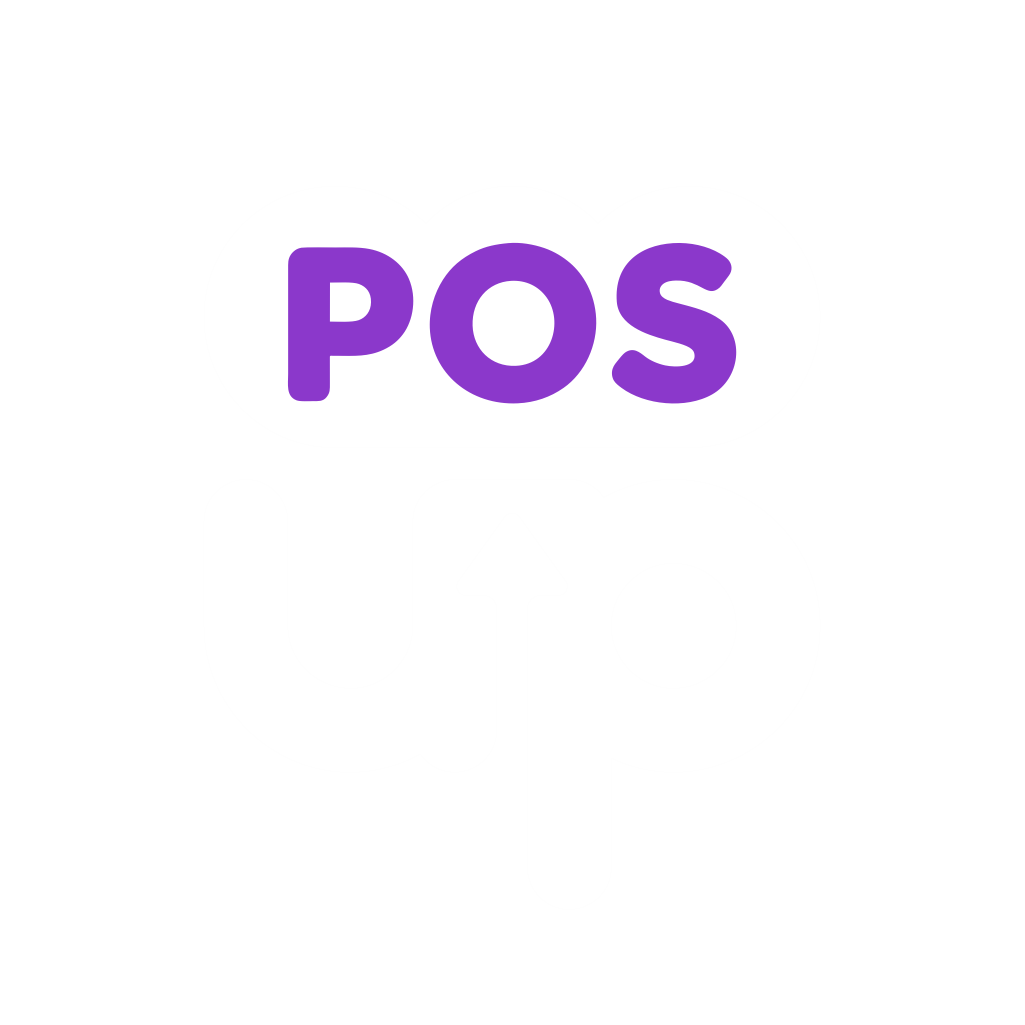
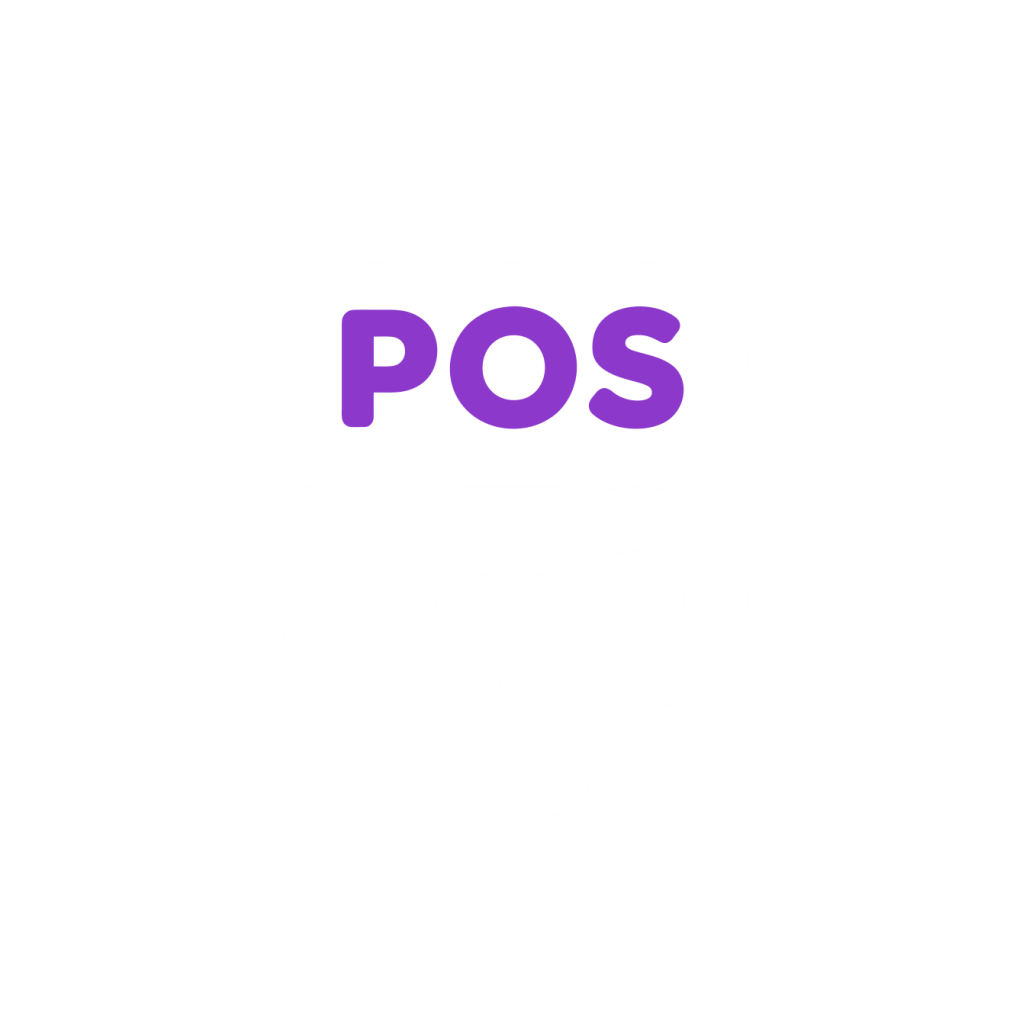
apk building for testing

Changed region(s): [[0.281, 0.2185, 0.718, 0.4371]]

diff --git a/lib/sunmiPrinter.ts b/lib/sunmiPrinter.ts
@@ -1,0 +1,90 @@
+// lib/sunmiPrinter.ts
+//
+// Native-only (Android) implementation of Sunmi built-in printer support.
+// This file is paired with lib/sunmiPrinter.web.ts -- Metro automatically
+// picks the .web.ts version when bundling for web, so the native library
+// import below is NEVER statically included in the web build.
+//
+// Do not import '@mitsuharu/react-native-sunmi-printer-library' anywhere
+// outside this file (and its .web.ts counterpart).
+
+import * as SunmiPrinterLibrary from '@mitsuharu/react-native-sunmi-printer-library';
+
+interface ReceiptTranslation {
+  total: string;
+  payment: string;
+  cash: string;
+  card: string;
+  note: string;
+  thank: string;
+  subtotal: string;
+  discount: string;
+  table: string;
+}
+
+export async function printReceiptViaSunmi(
+  order: any,
+  restaurantName: string,
+  tr: ReceiptTranslation
+): Promise<void> {
+  const date = new Date(order.created_at);
+  const dateStr = date.toLocaleDateString('de-CH');
+  const timeStr = date.toLocaleTimeString('de-CH', { hour: '2-digit', minute: '2-digit' });
+
+  await SunmiPrinterLibrary.prepare();
+
+  await SunmiPrinterLibrary.setAlignment('center');
+  await SunmiPrinterLibrary.setTextStyle('bold', true);
+  await SunmiPrinterLibrary.setFontSize(32);
+  await SunmiPrinterLibrary.printText(restaurantName.toUpperCase() + '\n');
+  await SunmiPrinterLibrary.setFontSize(24);
+  await SunmiPrinterLibrary.printText((order.order_number || '') + '\n');
+  await SunmiPrinterLibrary.setTextStyle('bold', false);
+  await SunmiPrinterLibrary.setFontSize(20);
+  await SunmiPrinterLibrary.printText(`${dateStr} ${timeStr}\n`);
+  if (order.table && order.table !== 'Walk-in') {
+    await SunmiPrinterLibrary.printText(`${tr.table}: ${order.table}\n`);
+  }
+
+  await SunmiPrinterLibrary.setAlignment('left');
+  await SunmiPrinterLibrary.printText('--------------------------------\n');
+
+  for (const item of order.items || []) {
+    const left = `${item.quantity}x ${item.name}`;
+    const right = `CHF ${parseFloat(item.total).toFixed(2)}`;
+    await SunmiPrinterLibrary.printText(left.padEnd(32 - right.length) + right + '\n');
+
+    if (item.variation) {
+      await SunmiPrinterLibrary.printText(`   -> ${item.variation}\n`);
+    }
+
+    for (const addon of item.addons || []) {
+      await SunmiPrinterLibrary.printText(`   + ${addon.label || addon.name}\n`);
+    }
+  }
+
+  await SunmiPrinterLibrary.printText('--------------------------------\n');
+
+  if (order.discount && parseFloat(order.discount) > 0) {
+    const sub = `CHF ${parseFloat(order.subtotal).toFixed(2)}`;
+    await SunmiPrinterLibrary.printText(`${tr.subtotal.padEnd(32 - sub.length)}${sub}\n`);
+    const disc = `-CHF ${parseFloat(order.discount).toFixed(2)}`;
+    await SunmiPrinterLibrary.printText(`${tr.discount.padEnd(32 - disc.length)}${disc}\n`);
+  }
+
+  const total = `CHF ${parseFloat(order.total).toFixed(2)}`;
+  await SunmiPrinterLibrary.setTextStyle('bold', true);
+  await SunmiPrinterLibrary.printText(`${tr.total.padEnd(32 - total.length)}${total}\n`);
+  await SunmiPrinterLibrary.setTextStyle('bold', false);
+  await SunmiPrinterLibrary.printText(`${tr.payment}: ${order.payment_method === 'cash' ? tr.cash : tr.card}\n`);
+
+  if (order.note) {
+    await SunmiPrinterLibrary.printText(`${tr.note}: ${order.note}\n`);
+  }
+
+  await SunmiPrinterLibrary.printText('--------------------------------\n');
+  await SunmiPrinterLibrary.setAlignment('center');
+  await SunmiPrinterLibrary.printText(tr.thank + '\n');
+  await SunmiPrinterLibrary.setFontSize(16);
+  await SunmiPrinterLibrary.printText('Powered by FoodUp.ch\n\n\n');
+}

diff --git a/lib/printer.ts b/lib/printer.ts
@@ -1,6 +1,7 @@
 import AsyncStorage from '@react-native-async-storage/async-storage';
 import * as Print from 'expo-print';
 import { Platform } from 'react-native';
+import { printReceiptViaSunmi } from './sunmiPrinter';
 
 const receiptTranslations: { [key: string]: { total: string; payment: string; cash: string; card: string; note: string; thank: string; subtotal: string; discount: string; table: string; } } = {
   de: { total: 'TOTAL', payment: 'Zahlung', cash: 'Bar', card: 'Karte', note: 'Notiz', thank: 'Danke & auf Wiedersehen!', subtotal: 'Zwischensumme', discount: 'Rabatt', table: 'Tisch' },
@@ -324,12 +325,13 @@ async function printZReportViaTCP(data: any, restaurantName: string, language: s
     setTimeout(() => { client.destroy(); reject(new Error('Print timeout')); }, 6000);
   });
 }
-
+ 
 export async function printOrder(order: any, restaurantCode: string): Promise<void> {
   const restaurantName = await AsyncStorage.getItem('restaurant_name') || restaurantCode;
   const logoUrl = await AsyncStorage.getItem('restaurant_logo') || '';
   const language = await AsyncStorage.getItem('app_language') || 'de';
   const printerIp = await AsyncStorage.getItem('printer_ip');
+  const printerModel = (await AsyncStorage.getItem('printer_model') || '').toLowerCase();
 
   if (Platform.OS === 'web') {
     const html = buildReceiptHTML(order, restaurantName, logoUrl, language);
@@ -341,6 +343,16 @@ export async function printOrder(order: any, restaurantCode: string): Promise<vo
       setTimeout(() => { win.print(); win.close(); }, 500);
     }
     return;
+  }
+
+  if (printerModel.includes('sunmi')) {
+    try {
+      const tr = receiptTranslations[language] || receiptTranslations['de'];
+      await printReceiptViaSunmi(order, restaurantName, tr);
+      return;
+    } catch (e) {
+      console.log('Sunmi built-in print failed, falling back:', e);
+    }
   }
 
   if (printerIp) {

diff --git a/lib/sunmiPrinter.web.ts b/lib/sunmiPrinter.web.ts
@@ -1,0 +1,14 @@
+// lib/sunmiPrinter.web.ts
+//
+// Web build stub. Metro's platform-extension resolution automatically
+// uses THIS file instead of sunmiPrinter.ts when bundling for web, so
+// the native '@mitsuharu/react-native-sunmi-printer-library' import
+// never gets pulled into the web bundle at all.
+
+export async function printReceiptViaSunmi(
+  _order: any,
+  _restaurantName: string,
+  _tr: any
+): Promise<void> {
+  throw new Error('Sunmi built-in printer is not available on web');
+}